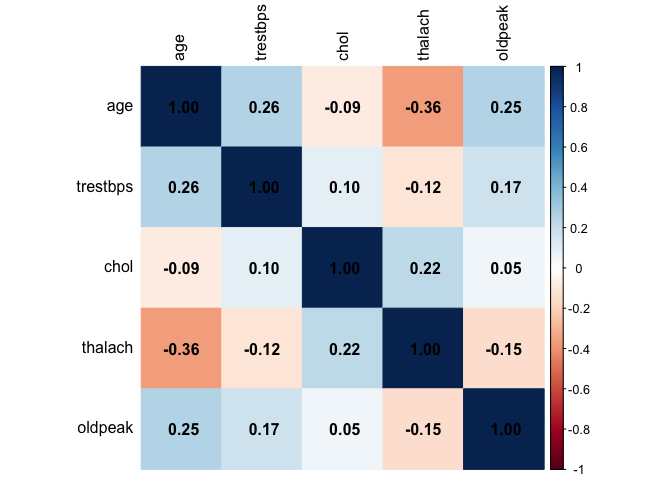
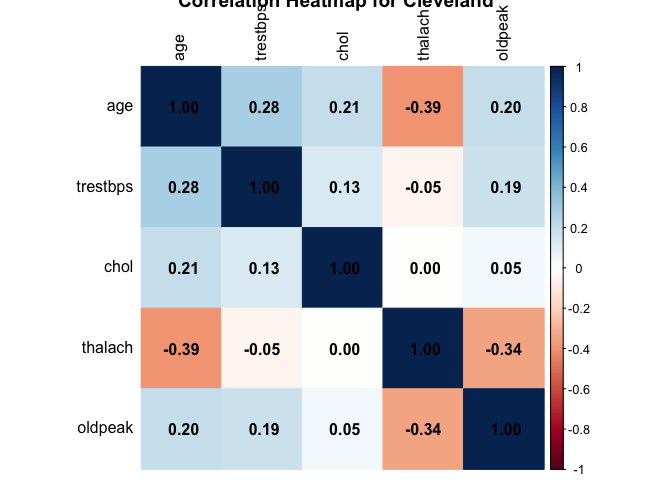
decide to create correlation heatmap for each region. needs more changes to make heatmap more readable.

diff --git a/EDA.md b/EDA.md
@@ -20,9 +20,9 @@ switzerland = read_csv("./data/switzerland.csv", na = "?")
 
 ``` r
 dfs = list(cleveland, hungary, long_beach, switzerland)
-locations = c("Cleveland", "Hungary", "Long Beach", "Switzerland")
+regions = c("Cleveland", "Hungary", "Long Beach", "Switzerland")
 
-combined_df = purrr::map2(dfs, locations, ~ mutate(.x, region = .y)) |>
+combined_df = purrr::map2(dfs, regions, ~ mutate(.x, region = .y)) |>
   bind_rows()
 ```
 
@@ -57,14 +57,31 @@ continuous_var
 | Long Beach  |    59.35 |   7.81 |         60 |        133.76 |       21.54 |             130 |    178.75 |  114.04 |         216 |       122.80 |      21.99 |            120 |         1.32 |       1.11 |            1.5 |
 | Switzerland |    55.32 |   9.03 |         56 |        130.21 |       22.56 |             125 |      0.00 |    0.00 |           0 |       121.56 |      25.98 |            121 |         0.65 |       1.06 |            0.3 |
 
-### Correlation Heatmap
+### Correlation heatmap for each region
 
 ``` r
-corr_matrix = cor(combined_df[, c("age", "trestbps", "chol", "thalach", "oldpeak")], use = "complete.obs")
-corrplot::corrplot(corr_matrix, method = "color", addCoef.col = "black", tl.col = "black")
+cols_to_include = c("age", "trestbps", "chol", "thalach", "oldpeak")
+corr_plots = list()
+
+for(r in regions) {
+  region_data = combined_df |> filter(region == r)
+  
+  corr_matrix = cor(region_data[, cols_to_include], use = "complete.obs")
+  
+  corr_plots[[r]] = corrplot::corrplot(corr_matrix, 
+                                       method = "color", 
+                                       addCoef.col = "black", 
+                                       tl.col = "black", 
+                                       main = paste("Correlation Heatmap for", r))
+}
 ```
 
-![](EDA_files/figure-gfm/unnamed-chunk-5-1.png)<!-- -->
+![](EDA_files/figure-gfm/unnamed-chunk-5-1.png)<!-- -->![](EDA_files/figure-gfm/unnamed-chunk-5-2.png)<!-- -->
+
+    ## Warning in cor(region_data[, cols_to_include], use = "complete.obs"): the
+    ## standard deviation is zero
+
+![](EDA_files/figure-gfm/unnamed-chunk-5-3.png)<!-- -->![](EDA_files/figure-gfm/unnamed-chunk-5-4.png)<!-- -->
 
 ## Discrete Variables
 
